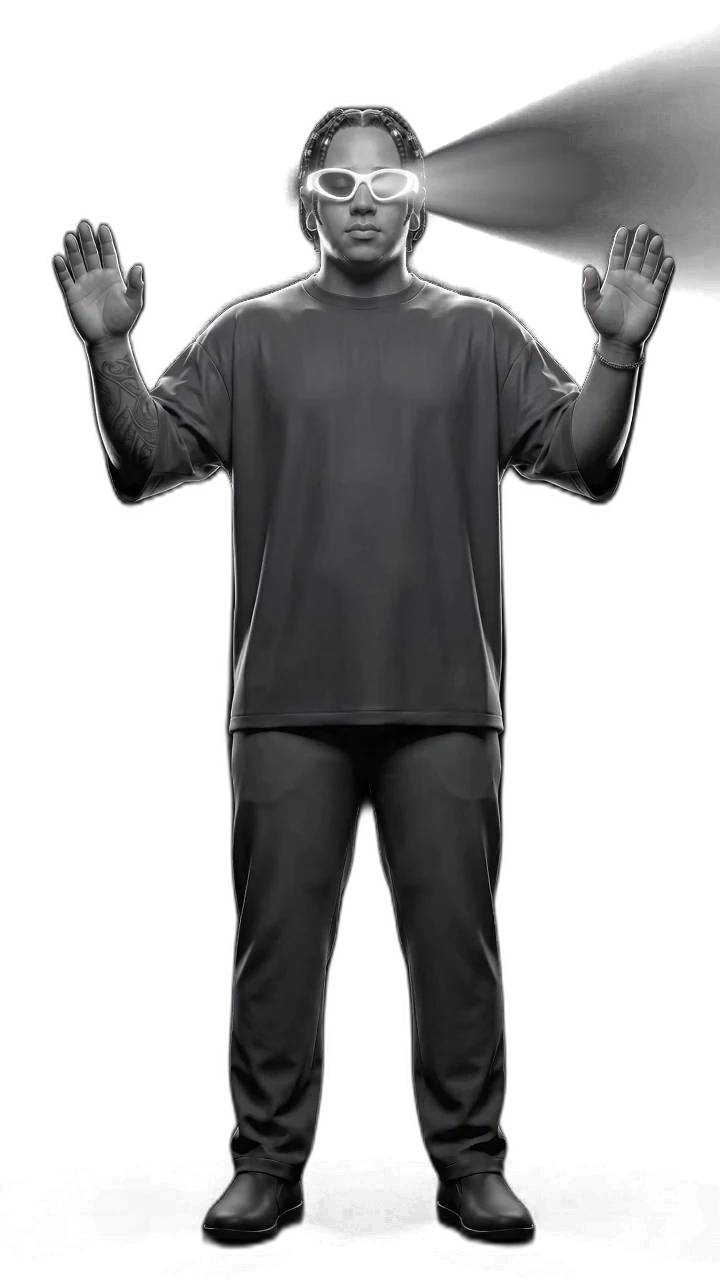
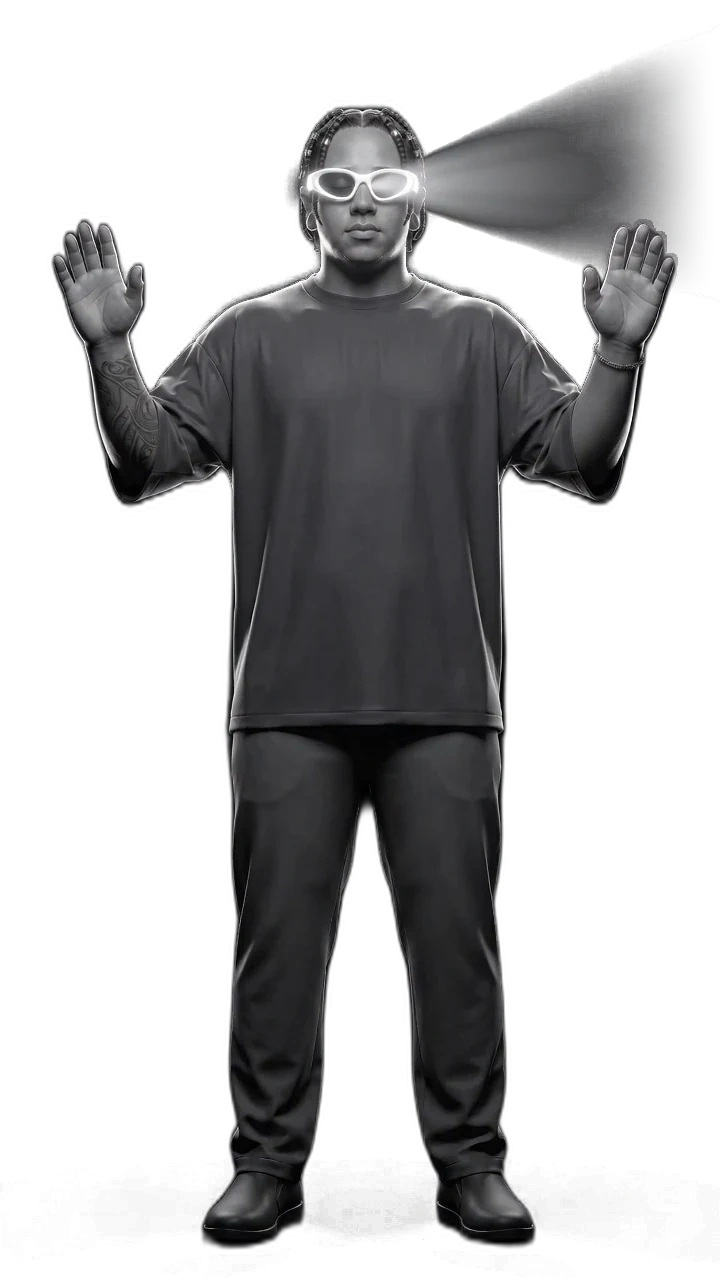
Feixe do oculos: um so, terminando em degrade
Havia dois cones saindo dos oculos em angulos diferentes. Um deles nunca foi
codigo: vem PINTADO em seis sprites (observing_01..04, projecting_05/06), na
perspectiva certa e preso aos oculos. O outro era desenhado por
`CharacterCanvas`, que somava um segundo cone por cima.

Fica o da arte, e o codigo para de desenhar feixe: saem `buildBeam`,
`drawBeam` e o campo `beam` de `Sequences`. O asset `ui/projection_beam.webp`
deixa de ser usado.

O que o codigo resolvia de util era o corte reto onde o feixe pintado bate na
borda do arquivo. Isso foi resolvido nos proprios .webp: a nevoa do feixe vai
a zero em degrade entre x=600 e x=720. A rampa comeca DEPOIS do nucleo solido
(~x 590) para nao deixar degrau na emenda, e so toca pixels semitransparentes
que estao longe de pixel solido - assim a borda antisserrilhada do
personagem, da mao e do ombro nao e alterada em nenhum pixel.

Nao tente em vez disso APAGAR o feixe pintado: o brilho nao separa feixe de
corpo (a ponta do feixe chega a 52 e a camisa e 57) e qualquer regra por
altura come o ombro nas poses de braco baixado.

Em `useSceneLayer`, a camada de cena que sai agora recebe tambem
`display: none`, alem de `opacity: 0` e `visibility: hidden`. Com
`will-change` e `translate3d` ativos o compositor guarda a textura da camada
na GPU, e em aparelho apertado ela pode continuar sendo apresentada depois da
opacidade zerar - o quadro fantasma sobre a abertura. `display: none` tira o
[…]

Changed region(s): [[0.8556, 0.0312, 1.0, 0.25]]

diff --git a/app/src/components/CharacterCanvas.tsx b/app/src/components/CharacterCanvas.tsx
@@ -69,8 +69,6 @@ const MAX_SPRITE_UPSCALE = 1.35
 interface Sequences {
   frames: Record<SequenceName, (HTMLImageElement | null)[]>
   glow: HTMLImageElement | null
-  /** Cone de luz projetado pelos oculos. Asset ja existia, sem uso ate aqui. */
-  beam: HTMLImageElement | null
 }
 
 /**
@@ -116,15 +114,8 @@ async function loadSequences(): Promise<Sequences> {
     })
   )
 
-  let beam: HTMLImageElement | null = null
-  jobs.push(
-    load("/ui/projection_beam.webp").then((img) => {
-      beam = img
-    })
-  )
-
   await Promise.all(jobs)
-  return { frames, glow, beam }
+  return { frames, glow }
 }
 
 interface DrawFrame {
@@ -199,6 +190,7 @@ export default function CharacterCanvas() {
     let initialised = false
     let lastFilter = ""
 
+
     const pickFrame = (
       seq: Sequences,
       stateName: string,
@@ -226,7 +218,6 @@ export default function CharacterCanvas() {
       h: number,
       pose: Pose,
       glowAmount: number,
-      beamAmount: number,
       time: number
     ) => {
       const cfg = STATE_MAP[stateName] || STATE_MAP.idle
@@ -323,41 +314,15 @@ export default function CharacterCanvas() {
         ctx.drawImage(seq.glow, glowX, glowY, glowW, glowH)
         ctx.globalCompositeOperation = "source-over"
 
-        // ---- Feixe de projecao ------------------------------------------
-        // A peca inteira se chama "projetando visao", o personagem tem oculos
-        // que brilham, e ate aqui nao saia NADA deles: a metafora central
-        // estava escrita nos textos e nunca mostrada. O asset ja existia.
-        //
-        // Sai da mesma origem do brilho, entao acompanha o personagem de graca.
-        if (seq.beam && beamAmount > 0.01) {
-          const originX = glowX + glowW / 2
-          const originY = glowY + glowH / 2
+        /*
+          O feixe NAO e desenhado por codigo.
 
-          // O quadro projetado fica no centro da tela; o personagem costuma
-          // estar a esquerda nesta cena. O feixe aponta da cabeca para o alvo.
-          const targetX = w / 2
-          const targetY = h * 0.42
-          const dx = targetX - originX
-          const dy = targetY - originY
-          const distance = Math.hypot(dx, dy)
-          const angle = Math.atan2(dy, dx)
-
-          const beamLength = Math.max(distance * 1.15, w * 0.25)
-          const beamHeight = beamLength * 0.52
-
-          ctx.save()
-          ctx.translate(originX, originY)
-          ctx.rotate(angle)
-          // O asset tem o apice a DIREITA e abre para a esquerda; espelhamos no
-          // eixo X para o apice ficar na origem (os oculos) e a abertura no
-          // alvo.
-          ctx.scale(-1, 1)
-          ctx.globalCompositeOperation = "lighter"
-          ctx.globalAlpha = alpha * beamAmount * (0.26 + Math.sin(time / 900) * 0.05)
-          ctx.drawImage(seq.beam, -beamLength, -beamHeight / 2, beamLength, beamHeight)
-          ctx.globalCompositeOperation = "source-over"
-          ctx.restore()
-        }
+          Ele ja vem pintado nos sprites de `observing` e `projecting_05/06`,
+          na perspectiva certa e preso aos oculos. Desenhar um segundo por
+          cima dava dois cones em angulos diferentes. O que o codigo fazia de
+          util - impedir o corte reto na borda do arquivo - foi resolvido nos
+          proprios .webp, cuja nevoa agora termina em degrade.
+        */
       }
 
       ctx.globalAlpha = 1
@@ -430,11 +395,6 @@ export default function CharacterCanvas() {
       const pose: Pose = { x: px, y: py, scale: pscale, lean: plean }
       const glowAmount = target.glow
 
-      // O feixe so existe na cena de projecao, e a intensidade e o peso da cena
-      // vezes o brilho dos oculos - entao ele nasce e morre junto com a cena,
-      // sem precisar de limiar proprio.
-      const beamAmount = state.weight.projection * glowAmount
-
       if (blend < 1 && prevState) {
         const outFrame = pickFrame(seq, prevState, prevSequenceTime)
         if (outFrame) {
@@ -448,7 +408,6 @@ export default function CharacterCanvas() {
             h,
             pose,
             glowAmount,
-            beamAmount,
             state.time
           )
         }
@@ -466,10 +425,10 @@ export default function CharacterCanvas() {
           h,
           pose,
           glowAmount,
-          beamAmount,
           state.time
         )
       }
+
     })
   }, [])
 

diff --git a/app/src/hooks/useSceneLayer.ts b/app/src/hooks/useSceneLayer.ts
@@ -102,6 +102,22 @@ export function useSceneLayer<T extends HTMLElement>(
         visible = shouldBeVisible
         el.style.visibility = visible ? "visible" : "hidden"
         el.style.willChange = visible ? "opacity, transform, filter" : "auto"
+        /*
+          `display: none` alem de `visibility` e `opacity`.
+
+          Os dois primeiros escondem a camada no MODELO, mas ela continua sendo
+          uma camada do compositor: com `will-change` e `translate3d` ativos, o
+          navegador guarda uma textura dela na GPU. Em aparelho com pouca
+          memoria de video essa textura pode continuar sendo apresentada por
+          alguns quadros mesmo depois da opacidade ir a zero - e o "quadro
+          fantasma" que aparece borrado por cima da abertura. `display: none`
+          tira o elemento da arvore de renderizacao, entao nao ha textura para
+          sobrar.
+
+          Custa pouco: cada camada alterna isso umas poucas vezes na visita
+          inteira, nunca por quadro.
+        */
+        el.style.display = visible ? "" : "none"
       }
       if (!visible) {
         /*
